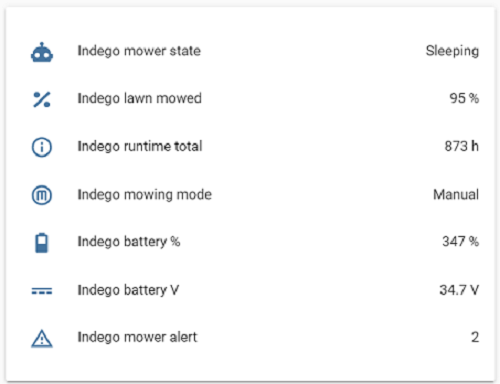
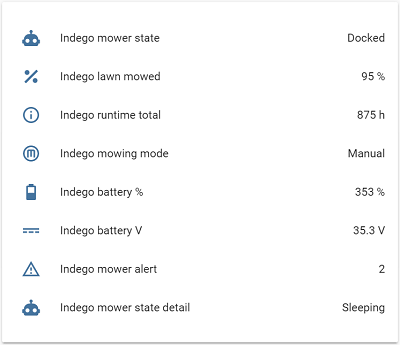
More simple state display

diff --git a/indego/sensor.py b/indego/sensor.py
@@ -11,6 +11,9 @@ def setup_platform(hass, config, add_devices, discovery_info=None):
 
     mower_state_sensor_name = GLOB_MOWER_NAME + ' mower state'
     add_devices([IndegoStateSensor(API, mower_state_sensor_name)])
+
+    mower_state_sensor_name = GLOB_MOWER_NAME + ' mower state detail'
+    add_devices([IndegoStateSensorDetail(API, mower_state_sensor_name)])
     
     lawn_mowed_sensor_name = GLOB_MOWER_NAME + ' lawn mowed'
     add_devices([IndegoLawnMowedSensor(API, lawn_mowed_sensor_name)])
@@ -52,11 +55,34 @@ class IndegoStateSensor(Entity):
     @property
     def device_state_attributes(self):
         return {
-            'State #':  self._IAPI._mower_state,
             'Model':    self._IAPI._model_description,
             'Serial':   self._IAPI._serial,
             'Firmware': self._IAPI._alm_firmware_version
             }
+
+class IndegoStateSensorDetail(Entity):
+    def __init__(self, IAPI, device_label):
+        self._mower        = mower
+        self._IAPI         = IAPI
+        self._state        = None
+        self._device_label = device_label
+    @property
+    def name(self):
+        return self._device_label
+    @property
+    def state(self):
+        return self._IAPI._mower_state_description_detailed
+    @property
+    def icon(self):
+        return 'mdi:robot'
+    #def update(self):
+    #    self._mower.update(self)
+    @property
+    def device_state_attributes(self):
+        return {
+            'State #':  self._IAPI._mower_state,
+            }
+            
 
 class IndegoLawnMowedSensor(Entity):
     def __init__(self, IAPI, device_label):

diff --git a/indego/__init__.py b/indego/__init__.py
@@ -90,6 +90,7 @@ class Mower():
         #Get data for State, 
         IndegoAPI_Instance.getState()
         IndegoAPI_Instance.MowerStateDescription()
+        IndegoAPI_Instance.MowerStateDescriptionDetailed()
         IndegoAPI_Instance.Runtime()
         IndegoAPI_Instance.RuntimeTotal()
         IndegoAPI_Instance.RuntimeSession()

diff --git a/README.md b/README.md
@@ -30,15 +30,16 @@ indego_id:       123456789
 ### Entities
  All sensors are auto discovered and should appear as "unused entities" after adding the component. List of available sensor entities:
 
-|Sensor                  | Description                                      |
-|------------------------|--------------------------------------------------|
-|Indego mower state      | Current state                                    |
-|Indego lawn mowed       | Current percentage of the lawn that is mowed     |
-|Indego mowing mode      | The mowing mode set                              |
-|Indego runtime total    | Sum the total runtime of the mover               |
-|Indego alerts           | Number of alerts                                 |
-|Indego battery %        | Battery percentage (experimental)                |
-|Indego battery V        | Battery voltageNumber (experimental)             |
+|Sensor                    | Description                                      |
+|--------------------------|--------------------------------------------------|
+|Indego mower state        | Current state                                    |
+|Indego lawn mowed         | Current percentage of the lawn that is mowed     |
+|Indego mowing mode        | The mowing mode set                              |
+|Indego runtime total      | Sum the total runtime of the mover               |
+|Indego alerts             | Number of alerts                                 |
+|Indego battery %          | Battery percentage (experimental)                |
+|Indego battery V          | Battery voltageNumber (experimental)             |
+|Indego mower state detail | Current state in detail                          |
 
 **mover state** has properties for model name, serial and firmware.
 

diff --git a/CHANGELOG.md b/CHANGELOG.md
@@ -1,6 +1,21 @@
 # Changelog
 
-## 0.4 2019-08-11
+## 0.6 2019-08-11
+Tested with Hassio 0.97.1 and Bosch Indego 1000
+
+### Breaking changes
+
+### Changes
+- Added sensor **Indego State Detailed**
+- Modified sensor **Indego Mower State** to have 5 states:
+    - Docked
+    - Mowing
+    - Diagnostic mode
+    - End of life
+    - Software update
+    - Stuck
+
+## 0.5 2019-08-11
 Tested with Hassio 0.96.5 and 0.97.1 and Bosch Indego 1000
 
 ### Breaking changes
